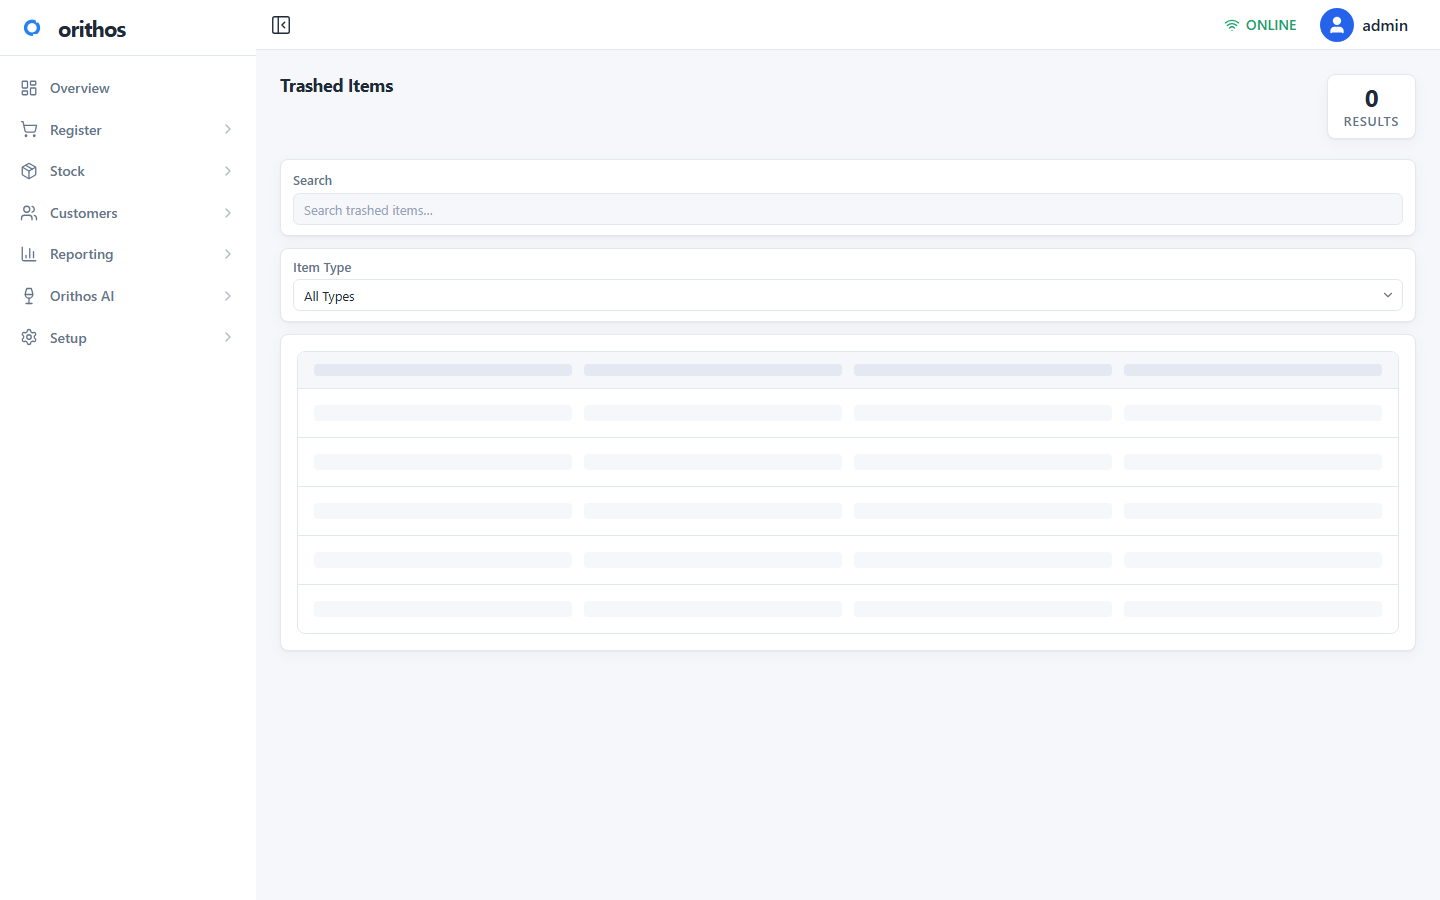
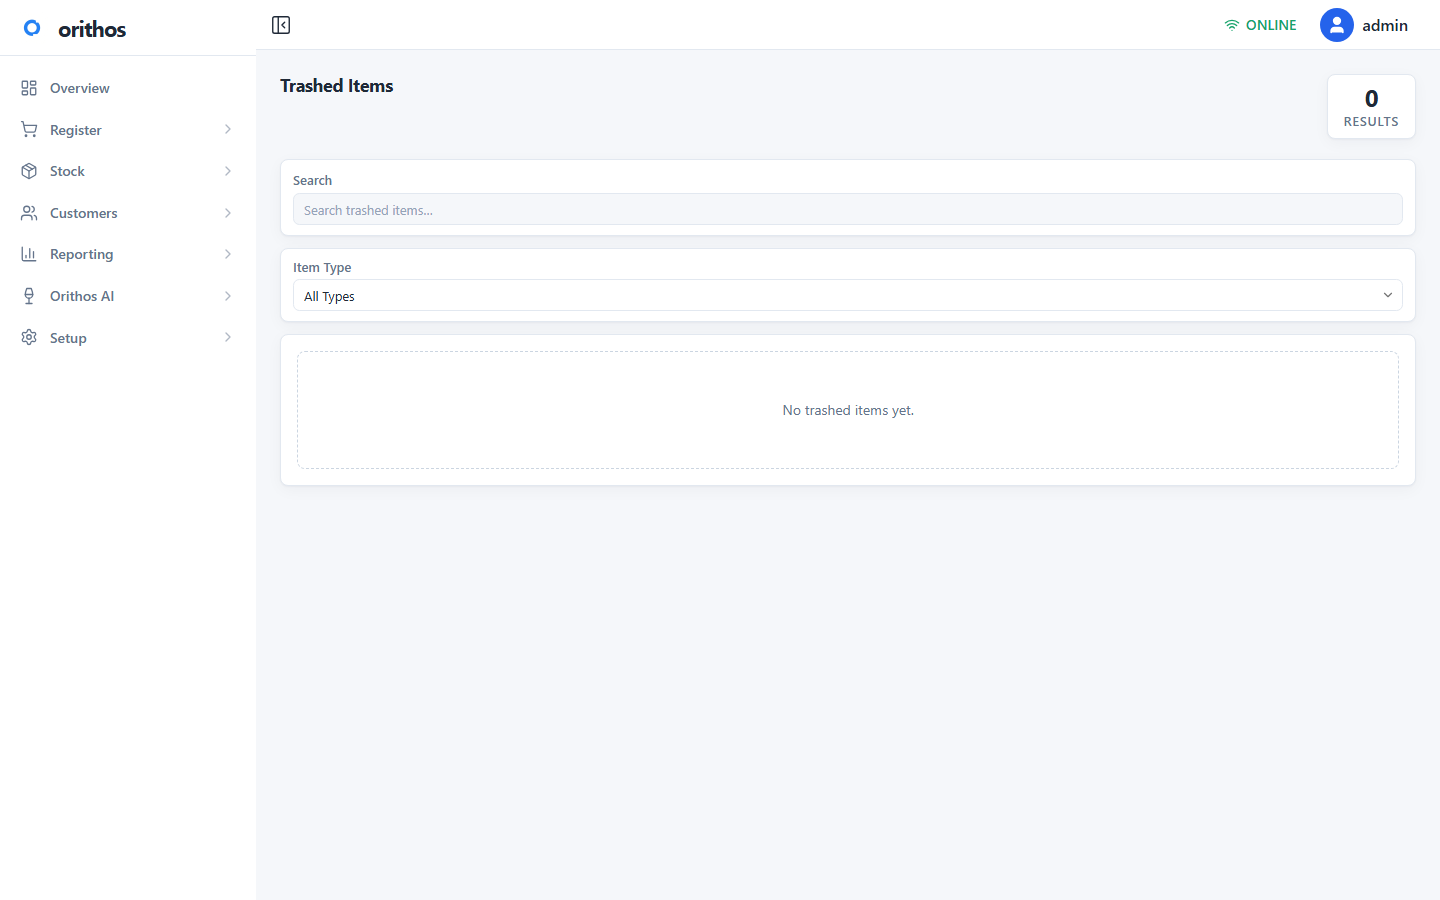
test: capture POS and admin regression batch

Changed region(s): [[0.2188, 0.4044, 0.9688, 0.4667]]

diff --git a/docs/HANDOFF_CURRENT_2026-10-17.md b/docs/HANDOFF_CURRENT_2026-10-17.md
@@ -30,8 +30,8 @@
 - 认证页面矩阵曾达到 131 路由 × 390/1440 = `262/262 PASS`；重点页面截图和大量 JSON UAT 证据已保存到 `docs/`。
 - 本地检查已有 `npm run typecheck`、目标 ESLint、`git diff --check` 通过；本机按既定约束未运行 `npm run build`。
 - 本批次新增通用可访问性与键盘交互优化：`Pagination` 标注当前页并为 Prev/Next 提供明确的 ARIA 名称；`AsyncState` 的加载、错误、空态增加 live-region 语义，Retry 按钮统一达到 44px 触控高度并保留焦点环；`Modal`、`ConfirmDialog`、`AlertDialog` 打开时把焦点放到可用关闭/确认控件，关闭后恢复到触发控件。该批次只涉及前端交互和语义，不调用业务写入 API。
-- 最新认证只读管理列表回归为 `8/8 PASS`，覆盖 `/purchases/odoo`、`/utilities/mail-log`、`/utilities/trashed-items`、`/platform/stores` 在 390px/1440px；证据见 `docs/UAT_ADMIN_LIST_BATCH_2026-10-17.json` 和对应截图目录，`sourceCommit=2bdeb80`、`deployment` 为空。
-- 新增 POS 弹窗只读回归脚本 `scripts/pilot-pos-dialog-uat.mjs`：认证浏览器在 `/` 点击 `POS help and recovery`，390px/1440px 均确认 dialog 打开后按 Escape 消失，结果 `2/2 PASS`；证据见 `docs/UAT_POS_DIALOG_2026-10-17.json` 和截图目录，`sourceCommit=a2d0ada`、`deployment=dokploy-sha-unverified`，所以仍不能证明 Dokploy 已运行当前代码。脚本增加冷加载等待和无敏感页面诊断输出。
+- 最新认证只读管理列表回归为 `8/8 PASS`，覆盖 `/purchases/odoo`、`/utilities/mail-log`、`/utilities/trashed-items`、`/platform/stores` 在 390px/1440px；证据见 `docs/UAT_ADMIN_LIST_BATCH_2026-10-17.json` 和对应截图目录，`sourceCommit=39dec99`、`deployment=dokploy-sha-unverified`。本次先出现一次回收项 390px 空态等待失败（7/8），立即重试后 8/8，通过脚本等待逻辑确认是瞬态页面加载。
+- 新增 POS 弹窗只读回归脚本 `scripts/pilot-pos-dialog-uat.mjs`：认证浏览器在 `/` 点击 `POS help and recovery`，390px/1440px 均确认 dialog 打开后按 Escape 消失，结果 `2/2 PASS`；证据见 `docs/UAT_POS_DIALOG_2026-10-17.json` 和截图目录，`sourceCommit=39dec99`、`deployment=dokploy-sha-unverified`，所以仍不能证明 Dokploy 已运行当前代码。脚本增加冷加载等待和无敏感页面诊断输出。
 - POS Register 本批进一步修正小票关闭按钮和暂存/切换确认按钮的触控高度，帮助/小票弹窗打开时聚焦关闭按钮并在关闭后恢复原焦点；只改前端交互，不提交销售或其他 Odoo 写入。typecheck、目标 ESLint、`git diff --check` 已通过。
 - 数量编辑器补齐 Escape 关闭、焦点恢复、`aria-modal`/标题语义、删除键标签和 44px 加减/确认触控目标；Sell 页面共用收款按钮统一 44px 高度和焦点环。未改变报价、收款请求或 Odoo 写入逻辑。
 - 最新待部署批次的共用组件优化已提交：`EmptyState`/`SadEmptyState` 改为手机优先布局并加入 live-region；`DataTable` 为列头补充 `scope=col`；`RowActions` 只渲染有真实回调的操作，并统一 44px 触控高度和焦点环；`Modal` 关闭后恢复触发控件焦点。提交为 `01d8759`，本地 typecheck、目标 ESLint 和 `git diff --check` 已通过。POS 弹窗回归脚本和证据已随 `3f7f8b6` 推送。
